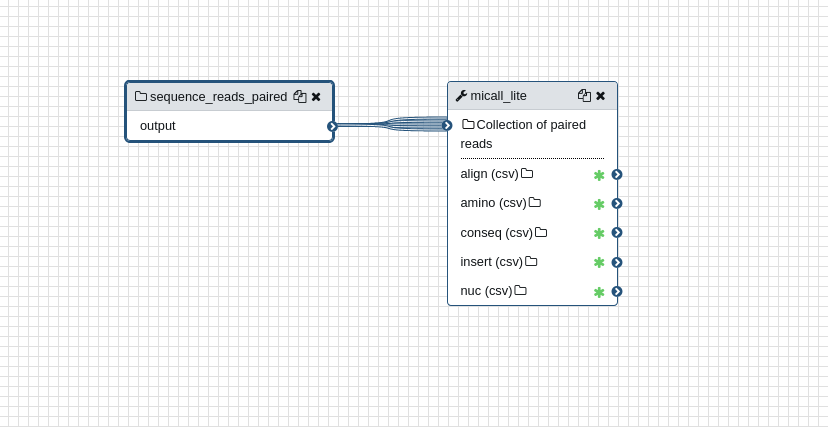
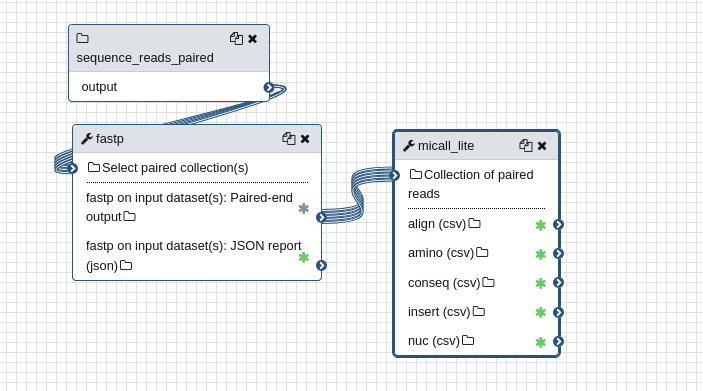
Add pipeline v0.3.0 with adapter trimming and custom projects.json loading

Changed region(s): [[0.0, 0.0, 1.0, 1.0], [0.3585, 0.5524, 0.3883, 0.5831], [0.239, 0.5524, 0.2688, 0.5831]]

diff --git a/src/main/java/org/publichealthbioinformatics/irida/plugin/micalllite/MicallLitePlugin.java b/src/main/java/org/publichealthbioinformatics/irida/plugin/micalllite/MicallLitePlugin.java
@@ -70,14 +70,14 @@ public class MicallLitePlugin extends Plugin {
 		 * <strong>id</strong> entry in the <strong>irida_workflow.xml</strong> file.
 		 * 
 		 * <pre>
-		 * {@code <id>d9820957-5ffc-4a25-b98b-c1a655ad39f7</id>}
+		 * {@code <id>806dbfb3-afab-41a8-bc69-9b39cb7b2c14</id>}
 		 * </pre>
 		 * 
 		 * @return A {@link UUID} defining the id of this pipeline.
 		 */
 		@Override
 		public UUID getDefaultWorkflowUUID() {
-			return UUID.fromString("d9820957-5ffc-4a25-b98b-c1a655ad39f7");
+			return UUID.fromString("806dbfb3-afab-41a8-bc69-9b39cb7b2c14");
 		}
 
 		/*******************************************************************************

diff --git a/README.md b/README.md
@@ -29,10 +29,83 @@ Please download the provided `irida-plugin-micall-lite-[version].jar` from the [
 
 In order to use this pipeline, you will also have to install several Galaxy tools within your Galaxy instance. These can be found at:
 
-| Name                               | Version         | Owner                          | Metadata Revision | Galaxy Toolshed Link                                                                                                                                                    |
-|------------------------------------|-----------------|--------------------------------|-------------------|-------------------------------------------------------------------------------------------------------------------------------------------------------------------------|
-| suite_micall_lite                  |                 | `public-health-bioinformatics` | 2 (2020-01-08)    | [suite_micall_lite-2:e9618b79c799](https://toolshed.g2.bx.psu.edu/view/public-health-bioinformatics/suite_micall_lite/e9618b79c799)                                     |
+| Name                 | Version           | Owner                          | Metadata Revision | Galaxy Toolshed Link                                                                                                    |
+|----------------------|-------------------|--------------------------------|-------------------|-------------------------------------------------------------------------------------------------------------------------|
+| micall_lite          |  `0.1rc5+galaxy0` | `public-health-bioinformatics` | 4 (2020-02-28)    | [micall_lite-4:27d61a7f82f1](https://toolshed.g2.bx.psu.edu/view/public-health-bioinformatics/micall_lite/27d61a7f82f1) |
+| fastp                |  `0.19.5+galaxy1` |                          `iuc` | 8 (2019-05-28)    | [fastp-8:1d8fe9bc4cb0](https://toolshed.g2.bx.psu.edu/view/iuc/fastp/1d8fe9bc4cb0)                                      |
 
+
+## Setting up your MiCall-Lite `projects.json` File
+
+MiCall-Lite requires a `projects.json` file that defines specific genomic regions and sequences to align against.
+
+An example `projects.json` file is available on the [MiCall-Lite GitHub Repo](https://github.com/PoonLab/MiCall-Lite/blob/master/micall/projects.json)
+
+The file is structured as follows:
+```
+{
+  "projects": {
+    "ERCC": {
+      "max_variants": 0,
+      "description": "External RNA Controls Consortium reference; https://doi.org/10.1186/1471-2164-6-150",
+      "regions": [
+        {
+          "coordinate_region": "ERCC-00002",
+          "seed_region_names": [
+            "ERCC-00002-seed"
+          ]
+        },
+        ...
+        "HCV": {
+              "max_variants": 0,
+              "description": "Hepatitis C virus, coding regions",
+              "regions": [
+                {
+                  "coordinate_region": "HCV1A-H77-Core",
+                  "seed_region_names": [
+                    "HCV-1a",
+                    "HCV-1c",
+                    "HCV-1e",
+                    "HCV-1g"
+                  ]
+                },
+        ...
+        "HIV": {
+              "max_variants": 0,
+              "description": "Human immunodeficiency virus type 1, coding regions",
+              "regions": [
+                {
+                  "coordinate_region": "GP41",
+                  "seed_region_names": [
+                    "HIV1B-env-seed"
+                  ]
+                },
+        ...
+        },
+    "regions": {
+        "ERCC-00002": {
+          "is_nucleotide": false,
+          "reference": [
+            "PDYFHFRPSCSQYTGVGIQTVG*SWFY*ARLAYEHYGQ*FLEE*VPRKKRTFGFQSCTVALNSDR",
+            "SQKNEI*AYGRSEWHKACSVSWHKIPCLDVIHVSGNCLVMRLFPGVRAAGICCKEGR*VRPTSLP",
+            "PFSLLGPVSQFSEVPPYAEDHLKRASSLFVVRRLLVWRRIARIINCAVRAASEEVCCGFALTAGR",
+            "RHNDSDSVSGDLHMFAAYFRWALASFRSQNRAIIPVLIYWTRNVGPSVVRIPRRLRAVYTLLSND",
+            "CTTCDHLIQNYQSSSPRSGLVRTAAFARVCGL*LFSLDGLAHIWLTRRIVAIHRFARQSVLVGVR",
+            "PRDSWLNGRTTRQPVLAFYP*KKKKKKK"
+          ],
+          "seed_group": null
+        },
+        ...
+    }
+}
+```
+
+## Preparing the 'micall_lite_projects_files' Tool Data Table in Galaxy
+
+This workflow requires that the MiCall-Lite `projects.json` files described above are made available via a 
+[Galaxy Tool Data Table](https://galaxyproject.org/admin/tools/data-tables/) called `micall_lite_projects_files`.
+We recommend that the galaxy administrator use the [`data_manager_manual`](https://github.com/galaxyproject/tools-iuc/tree/master/data_managers/data_manager_manual) 
+tool to manage that data table.
 
 # Building/Packaging
 
@@ -71,7 +144,7 @@ cd irida-plugin-example
 mvn clean package
 ```
 
-Once complete, you should end up with a file `target/example-plugin-1.0-SNAPSHOT.jar` which can be installed as a plugin to IRIDA.
+Once complete, you should end up with a file `target/irida-plugin-micall-lite-<version>.jar` which can be installed as a plugin to IRIDA.
 
 If you have previously [setup IRIDA][irida-setup] before you may copy this JAR file to `/etc/irida/plugins` and restart IRIDA.  The plugin should now show up in the **Analyses > Pipelines** section of IRIDA.
 
